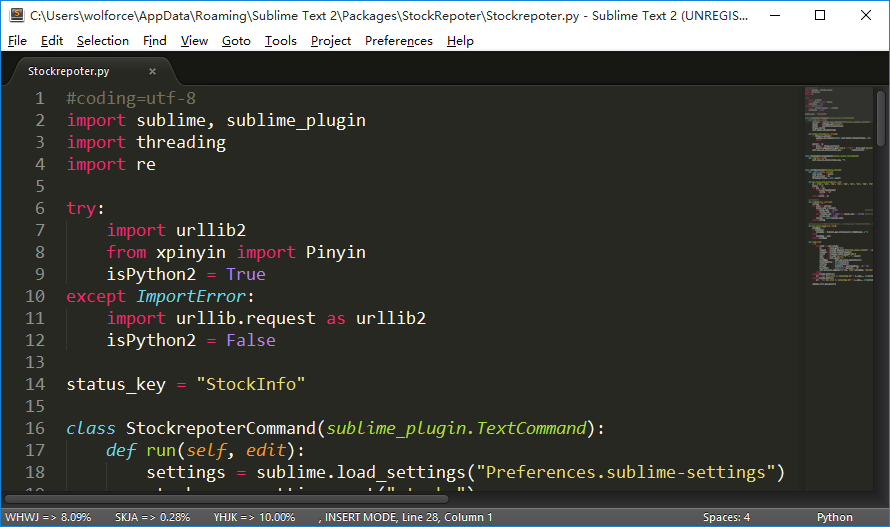
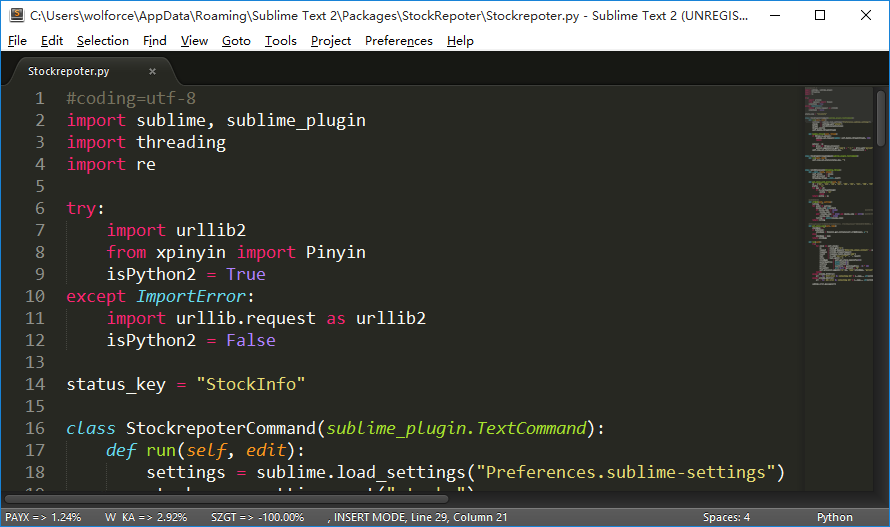
- 使用批量查询接口，提高查询速度.

Changed region(s): [[0.0, 0.9715, 0.5764, 1.0]]

diff --git a/StockRepoter/Stockrepoter.py b/StockRepoter/Stockrepoter.py
@@ -19,6 +19,7 @@ class StockrepoterCommand(sublime_plugin.TextCommand):
         stocks   = settings.get("stocks")
         thread   = FetchStocksCall(stocks)
         thread.start()
+        self.edit = edit
         self.handle_thread(thread)
 
     def handle_thread(self, thread):
@@ -30,7 +31,7 @@ class StockrepoterCommand(sublime_plugin.TextCommand):
         for price in thread.priceList:
             outList.append(price.get('name') + " => " + price.get('percent'))
         self.view.set_status(status_key, '        '.join(outList) + '        ')
-        
+
 
 class StockrepotercleanCommand(sublime_plugin.TextCommand):
     def run(self, edit):
@@ -77,19 +78,22 @@ class FetchStocksCall(threading.Thread):
 
     def run(self):
         try:
+            noList = []
             for stock in self.stocks:
-                no       = stock.get('no')
-                request  = urllib2.Request('http://hq.sinajs.cn/list=' + self.get_stock_with_prefix(no))
-                response = urllib2.urlopen(request)
-                result   = response.read().decode('gbk')
-                text     = re.sub('var.+=[^"]*"', '', result)
-                infos    = text.split(',')
+                noList.append(self.get_stock_with_prefix(stock.get('no')))
+            request  = urllib2.Request('http://hq.sinajs.cn/list=' + ','.join(noList))
+            response = urllib2.urlopen(request)
+            result   = response.read().decode('gbk')
+            lines    = result.strip().split('\n')
+            for line in lines:
+                text           = re.sub('var.+=[^"]*"', '', line)
+                infos          = text.split(',')
                 stockName      = self.get_stock_name(infos[0])
                 yesterdayPrice = float(infos[2])
                 curPrice       = float(infos[3])
                 percent        = (curPrice / yesterdayPrice - 1) * 100
                 percentStr     = str('%0.2f'%percent) + "%"
-                self.priceList.append({'no':no, 'name':stockName, 'percent': percentStr})
+                self.priceList.append({'name':stockName, 'percent': percentStr})
             return
         except urllib2.HTTPError:
             err = '%s: HTTP error %s contacting API' % (__name__, str(urllib2.HTTPError.code))

diff --git a/README.MD b/README.MD
@@ -23,7 +23,7 @@
 
 ##使用
 - 在sublime的任意窗口按下`Ctrl+Alt+8`拉取涨跌幅信息并在状态栏显示
-- 在任意窗口按下`Ctrl+Alt+9`清除状态栏上的股票信息
+- 在同一窗口按下`Ctrl+Alt+9`清除状态栏上的股票信息
 - 插件不会主动请求股票信息，只有在按下快捷键时才发起请求
 - 在Sublime2里，因为不支持在状态栏显示中文，所以股票名使用拼音缩写表示
 - 在Sublime3里，股票名直接使用中文表示
